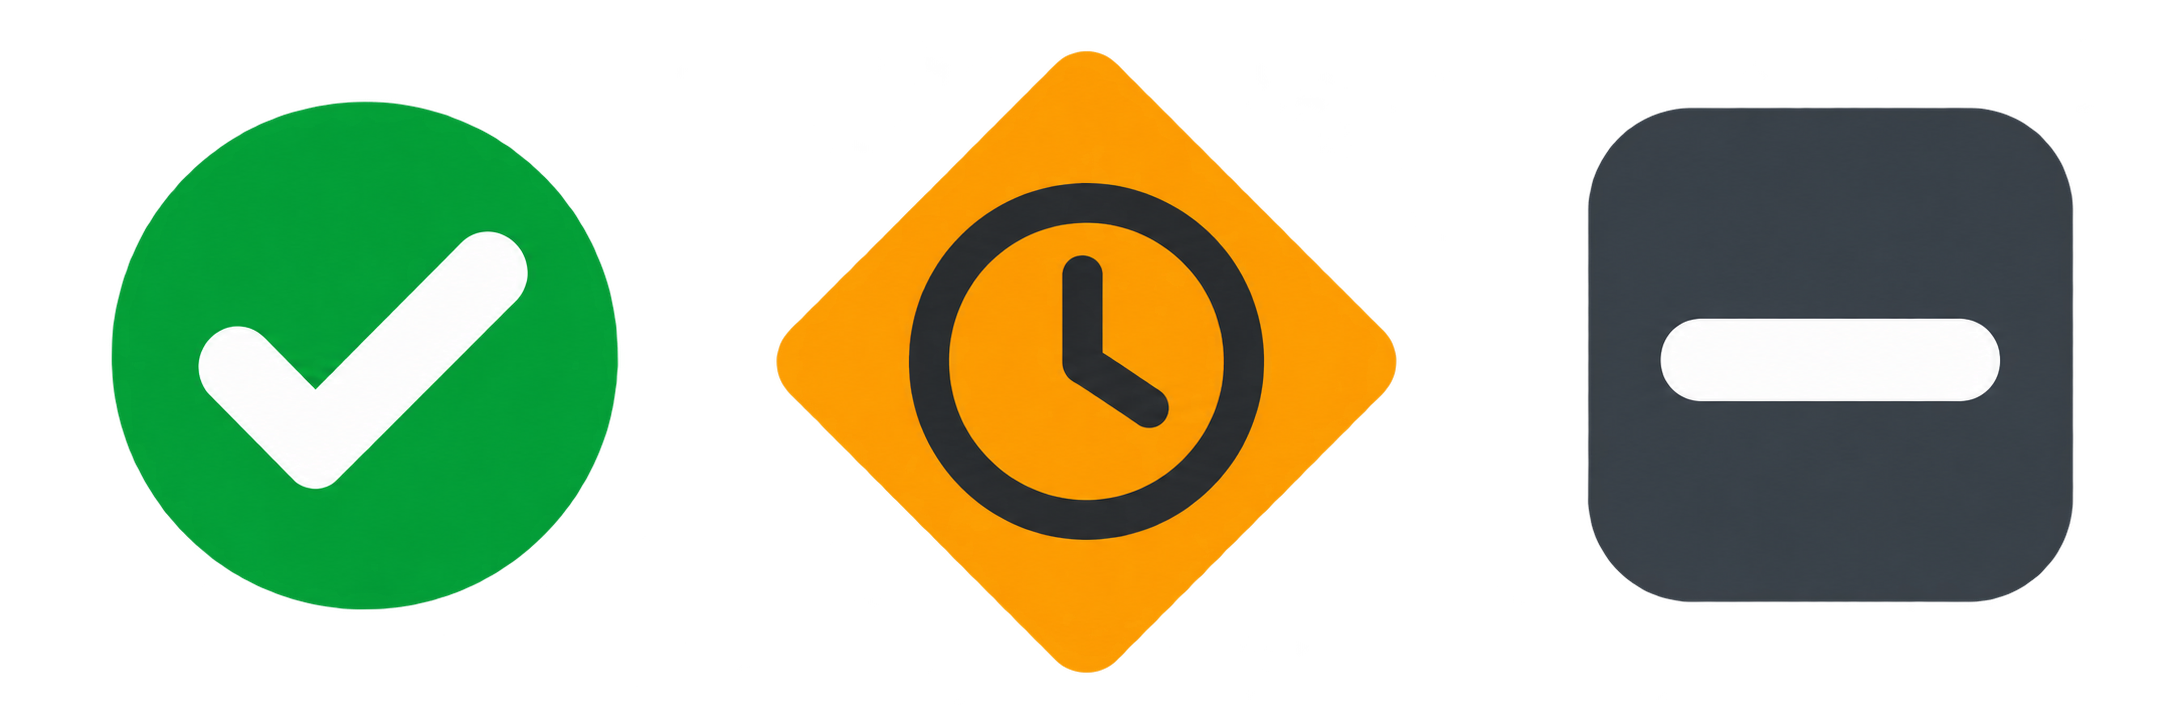
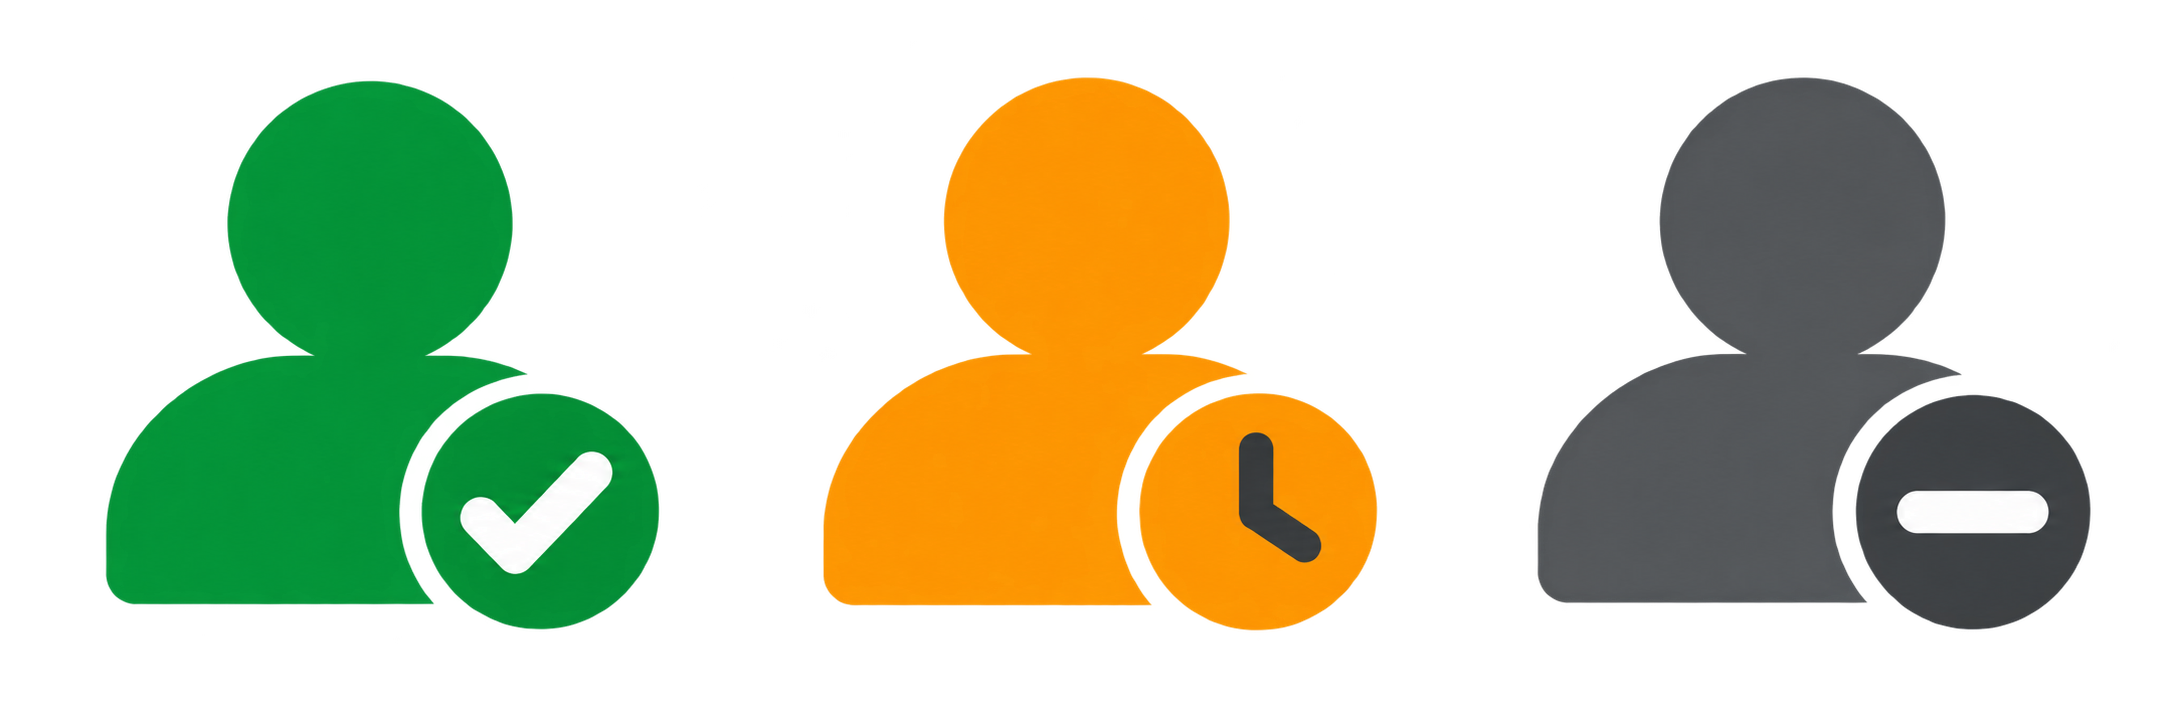
Use person silhouettes for presence states in demo 0.2.14

diff --git a/recovered/ieum-window-demo-0.2.7/js/app.js b/recovered/ieum-window-demo-0.2.7/js/app.js
@@ -341,7 +341,7 @@
         )
         .join(
           "",
-        )}</div></div><div class="search">${icon("search", 17)}<input class="input" id="people-search" aria-label="교직원 검색" placeholder="이름, 부서, 교과, 학년, 기타 그룹 검색" value="${esc(state.search)}"></div><div class="school-tools"><small class="muted">v0.2.13</small></div><div class="people-summary"><label class="select-label"><input id="select-all" type="checkbox" ${state.selected.size === state.data.people.length ? "checked" : ""}>전체 선택</label><span id="selected-count">${state.selected.size ? state.selected.size + "명 선택" : "이름을 더블클릭해 쪽지를 보내세요"}</span></div><div class="org-tree" id="org-tree">${orgTree()}</div></section><aside class="side-stack">${todayPanel()}${taskPanel()}<div class="quiet-card">${icon("leaf", 28)}<div><strong style="font-size:12px">오늘도, 서로에게 든든한 동료.</strong><p>작은 인사가 하루를 바꿔요.</p></div></div><div class="welcome-strip">TEACH · CONNECT · GROW</div></aside></div>`
+        )}</div></div><div class="search">${icon("search", 17)}<input class="input" id="people-search" aria-label="교직원 검색" placeholder="이름, 부서, 교과, 학년, 기타 그룹 검색" value="${esc(state.search)}"></div><div class="school-tools"><small class="muted">v0.2.14</small></div><div class="people-summary"><label class="select-label"><input id="select-all" type="checkbox" ${state.selected.size === state.data.people.length ? "checked" : ""}>전체 선택</label><span id="selected-count">${state.selected.size ? state.selected.size + "명 선택" : "이름을 더블클릭해 쪽지를 보내세요"}</span></div><div class="org-tree" id="org-tree">${orgTree()}</div></section><aside class="side-stack">${todayPanel()}${taskPanel()}<div class="quiet-card">${icon("leaf", 28)}<div><strong style="font-size:12px">오늘도, 서로에게 든든한 동료.</strong><p>작은 인사가 하루를 바꿔요.</p></div></div><div class="welcome-strip">TEACH · CONNECT · GROW</div></aside></div>`
     );
   }
   const groupLabel=p=>String(p[state.group]||"").trim()||({grade:"학년 미지정",otherGroup:"기타 미지정"}[state.group]||"미지정");

diff --git a/recovered/ieum-window-demo-0.2.7/VALIDATION.md b/recovered/ieum-window-demo-0.2.7/VALIDATION.md
@@ -1,4 +1,4 @@
-# 검증 기록 · 0.2.13
+# 검증 기록 · 0.2.14
 
 2026-10-11 한국 시간. Linux 관리형 작업 환경에서 수행했습니다.
 
@@ -25,3 +25,5 @@
 0.2.12 추가 검증: 교무업무의 보강 안내·수업 변경 선택 후 독립 작성창이 열리고 본창의 선택 모달이 사라짐을 확인했습니다. 일과표 선택도 기존 선택창을 대체합니다. 캘린더 창의 부모 관계를 제거하고 showInactive 및 본창 moveTop으로 본창 뒤에서 슬라이딩하도록 수정했습니다. 좌우 패널의 위치와 본창 위치·크기 유지, 부모 창 없음/항상 위 옵션 꺼짐을 Linux Electron에서 검사했습니다. 본창 너비 430px와 760px에서 조직도와 shell의 오른쪽 끝이 창 끝과 일치함을 확인했습니다. tests/desktop-navigation.cjs 및 tests/electron-deadlines.cjs 통과. 실제 Windows에서 창 겹침과 애니메이션은 별도 실행 확인이 필요합니다.
 
 0.2.13 추가 검증: 390px/430px Chromium 화면에서 분류 버튼이 조직도 제목 오른쪽에 같은 줄로 배치되고 창 밖으로 넘치지 않음을 확인했습니다. 부서/교과/학년/기타 전환과 선택 상태, 학교 이름 옆 전체/접속 인원 표시, 세 상태 이미지의 로컬 로드(3:1 PNG) 확인. 접속은 초록 원·체크, 부재는 주황 마름모·시계, 미접속은 회색 사각형·가로선으로 색과 모양 모두 구분합니다. 이미지 생성 후 assets/presence-status.png에 포함해 실행 중 외부 요청 없이 사용합니다. release/directory-0.2.13.png 화면 확인. 기존 Electron 화면/캘린더/모달 동작 회귀 검사 통과. 실제 Windows 실행은 미검증입니다.
+
+0.2.14: 상태 이미지를 머리와 어깨가 있는 사람 실루엣으로 교체했습니다. 초록 사람+체크(접속), 주황 사람+시계(부재), 회색 사람+가로선(미접속). 390px/430px 화면에서 로컬 이미지 로드, 세 상태 접근성 이름, 분류 전환 및 기존 제목/인원 배치를 확인했습니다. release/directory-0.2.14.png 시각 확인 및 Electron 데모 검사 통과. 이미지가 배포물에 포함되므로 표시를 위한 외부 통신은 없습니다.
